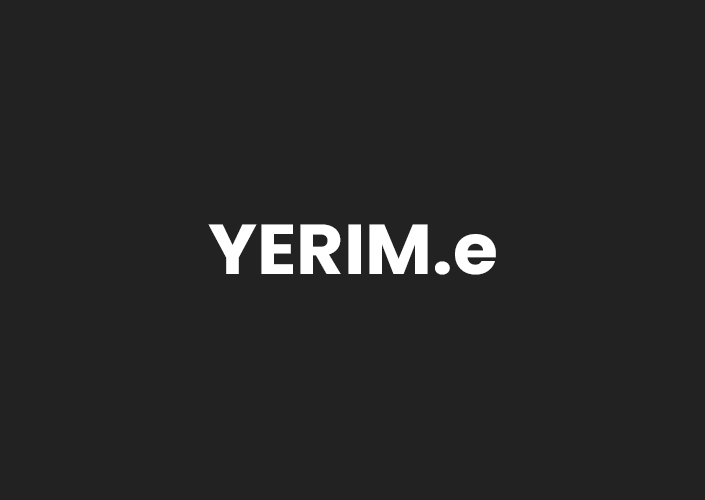
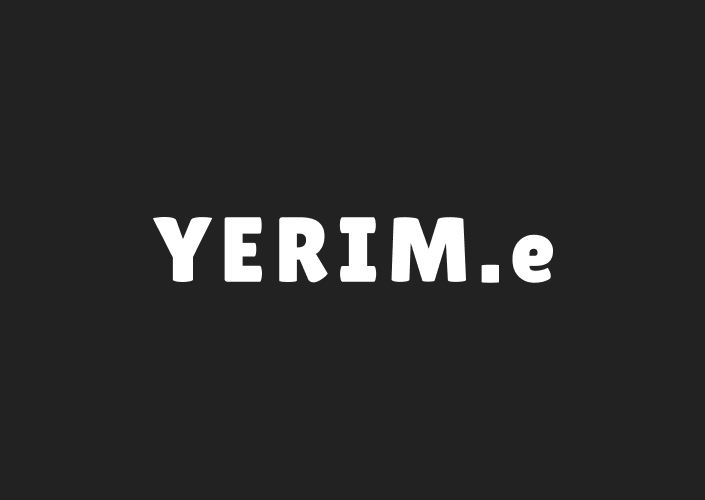
style: og-image 변경

Changed region(s): [[0.2184, 0.42, 0.8113, 0.57]]

diff --git a/src/component/layout/404/404Style.ts b/src/component/layout/404/404Style.ts
@@ -8,6 +8,8 @@ export const Custom404 = {
   `,
   Title: styled.h1`
     color: ${({ theme }) => theme.color.text_head};
+    font-family: 'Lilita One', 'Pretendard', sans-serif;
+    letter-spacing: 0.1em;
     font-size: 7rem;
     font-weight: 900;
     letter-spacing: 0.4rem;
